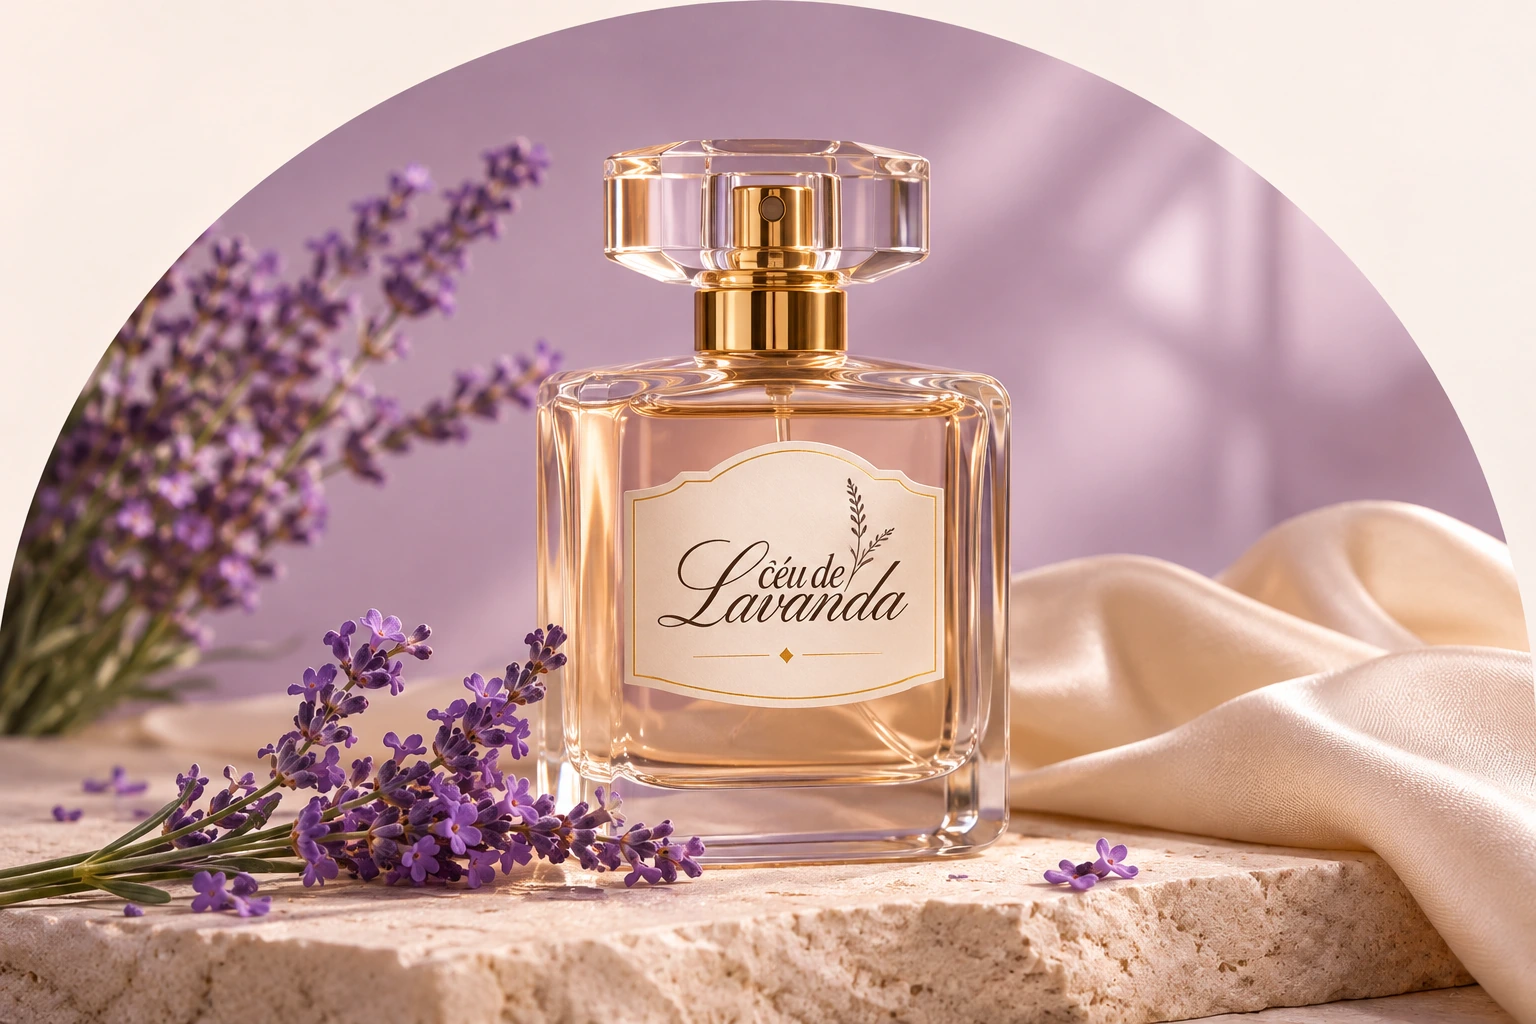
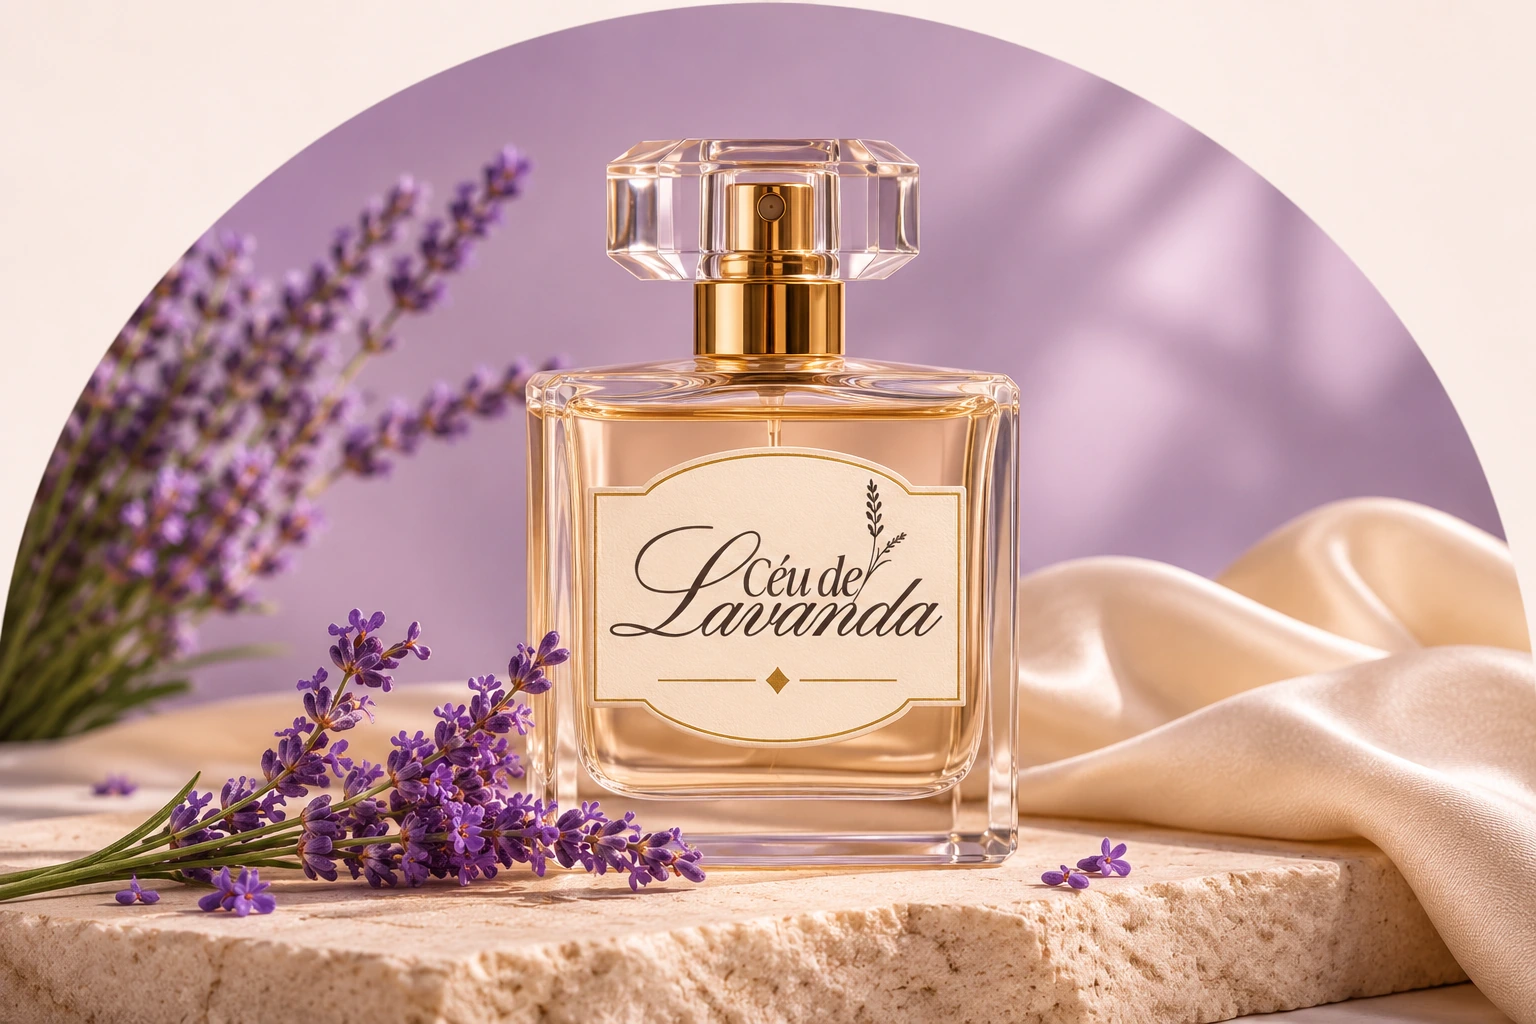
feat(home): refine brand presentation and catalog discovery
Update the hero image and center its mobile layout. Introduce a continuous decorative strip on smaller screens with accessible pause and reduced-motion behavior.

Present the brand and its artisan production in the About section, replace projected category counts with catalog data, and show a random selection of fragrances on each visit.

Remove outdated collection messaging and stabilize the animation test by waiting for the randomized selection.

Closes #3
Refs #4

diff --git a/src/features/home/components/brand-ribbon.tsx b/src/features/home/components/brand-ribbon.tsx
@@ -1,18 +1,48 @@
+"use client";
+
 import Image from "next/image";
+import { useEffect, useState } from "react";
 import { Reveal } from "@/shared/components/reveal";
 
+const phrases = ["Presença nos detalhes", "Beleza em cada descoberta", "O seu próximo encanto"];
+const ornament = "/branding/lavender-ornament-gold.svg";
+
 export function BrandRibbon() {
+  const [enabled, setEnabled] = useState(false);
+  const [paused, setPaused] = useState(false);
+  useEffect(() => {
+    const media = window.matchMedia("(max-width: 1050px) and (prefers-reduced-motion: no-preference)");
+    const update = () => setEnabled(media.matches);
+    const initial = window.setTimeout(update, 0);
+    media.addEventListener("change", update);
+    return () => { window.clearTimeout(initial); media.removeEventListener("change", update); };
+  }, []);
   return (
     <section className="brand-ribbon" aria-label="A essência da marca">
-      <Reveal className="phrase-strip wrap">
-        <Image src="/branding/lavender-ornament-gold.svg" alt="" width={76} height={138} />
-        <p>Presença nos detalhes</p>
-        <Image src="/branding/lavender-ornament-gold.svg" alt="" width={76} height={138} />
-        <p>Beleza em cada descoberta</p>
-        <Image src="/branding/lavender-ornament-gold.svg" alt="" width={76} height={138} />
-        <p>O seu próximo encanto</p>
-        <Image src="/branding/lavender-ornament-gold.svg" alt="" width={76} height={138} />
+      <Reveal className="phrase-strip wrap" data-ticker={enabled}>
+        <Image src={ornament} alt="" width={76} height={138} />
+        <p>{phrases[0]}</p>
+        <Image src={ornament} alt="" width={76} height={138} />
+        <p>{phrases[1]}</p>
+        <Image src={ornament} alt="" width={76} height={138} />
+        <p>{phrases[2]}</p>
+        <Image src={ornament} alt="" width={76} height={138} />
       </Reveal>
+      {enabled && (
+        <button className="phrase-ticker" type="button" data-paused={paused}
+          aria-label={`${paused ? "Retomar" : "Pausar"} movimento das frases: ${phrases.join(", ")}`}
+          onClick={() => setPaused(value => !value)}>
+          <span className="phrase-ticker-track" aria-hidden="true">
+            {[0, 1].map(copy => (
+              <span className="phrase-ticker-group" key={copy}>
+                {phrases.map(phrase => <span className="phrase-ticker-item" key={phrase}>
+                  <Image src={ornament} alt="" width={76} height={138} /><span>{phrase}</span>
+                </span>)}
+              </span>
+            ))}
+          </span>
+        </button>
+      )}
     </section>
   );
 }

diff --git a/src/features/home/components/category-discovery.tsx b/src/features/home/components/category-discovery.tsx
@@ -1,13 +1,13 @@
 import Image from "next/image";
 import Link from "next/link";
 import { ArrowUpRight } from "lucide-react";
-import { categories } from "@/features/catalog/lib/catalog";
+import { categories, products } from "@/features/catalog/lib/catalog";
 import { Reveal } from "@/shared/components/reveal";
 
 const categoryIntroductions = {
-  perfumes: { count: "Aproximadamente 90 fragrâncias", description: "Um convite para encontrar o seu próximo perfume." },
-  "body-splash": { count: "Aproximadamente 10 opções", description: "Um caminho dedicado à coleção de Body Splash." },
-  "perfume-capilar": { count: "1 fragrância", description: "Conheça o espaço do perfume capilar, também chamado Hair Mist." },
+  perfumes: { description: "Um convite para encontrar o seu próximo perfume." },
+  "body-splash": { description: "Um caminho dedicado à coleção de Body Splash." },
+  "perfume-capilar": { description: "Conheça o espaço do perfume capilar, também chamado Hair Mist." },
 };
 
 export function CategoryDiscovery() {
@@ -21,10 +21,11 @@ export function CategoryDiscovery() {
           <p className="eyebrow">ENCONTRE O SEU CAMINHO</p>
           <h2 id="category-title">Uma coleção, três caminhos</h2>
         </div>
-        <p>Dimensão prevista da coleção.<br /><span>O cadastro dos produtos acontece aos poucos.</span></p>
       </Reveal>
       <Reveal className="category-grid">
-        {categories.map((category) => (
+        {categories.map((category) => {
+          const count = products.filter(product => product.category === category.slug).length;
+          return (
           <Link
             className="category-card"
             key={category.slug}
@@ -41,11 +42,12 @@ export function CategoryDiscovery() {
             <div className="category-card-title">
               <h3>{category.name}</h3>
             </div>
-            <p className="category-count">{categoryIntroductions[category.slug].count}</p>
+            <p className="category-count">{count} {count === 1 ? "fragrância" : "fragrâncias"}</p>
             <p className="category-description">{categoryIntroductions[category.slug].description}</p>
             <span className="category-link">Explorar {category.name} <ArrowUpRight aria-hidden="true" /></span>
           </Link>
-        ))}
+          );
+        })}
       </Reveal>
     </section>
   );

diff --git a/tests/e2e/ribbon.spec.ts b/tests/e2e/ribbon.spec.ts
@@ -1,0 +1,36 @@
+import { expect, test } from "@playwright/test";
+
+for (const width of [320, 375, 390, 430]) {
+  test(`continuous mobile ribbon moves and pauses at ${width}px`, async ({ page }, info) => {
+    test.skip(info.project.name !== "mobile");
+    await page.setViewportSize({ width, height: 844 });
+    await page.emulateMedia({ reducedMotion: "no-preference" });
+    await page.goto("/");
+    const ticker = page.locator(".phrase-ticker");
+    await ticker.scrollIntoViewIfNeeded();
+    await expect(ticker).toBeVisible();
+    await expect(ticker).toHaveAccessibleName(/^Pausar movimento das frases/);
+    const track = ticker.locator(".phrase-ticker-track");
+    await expect(track).toHaveCSS("animation-name", "phrase-scroll");
+    await expect(track).toHaveCSS("animation-iteration-count", "infinite");
+    const before = await track.evaluate(el => new DOMMatrix(getComputedStyle(el).transform).m41);
+    await page.waitForTimeout(500);
+    const after = await track.evaluate(el => new DOMMatrix(getComputedStyle(el).transform).m41);
+    expect(after).toBeLessThan(before);
+    expect(await page.evaluate(() => document.documentElement.scrollWidth <= innerWidth)).toBe(true);
+    await ticker.tap();
+    await expect(track).toHaveCSS("animation-play-state", "paused");
+    await expect(page.getByRole("button", { name: /^Retomar movimento das frases/ })).toBeVisible();
+    await ticker.tap();
+    await expect(track).toHaveCSS("animation-play-state", "running");
+    await ticker.focus();
+    await ticker.press("Space");
+    await expect(track).toHaveCSS("animation-play-state", "paused");
+    await ticker.press("Space");
+    await expect(track).toHaveCSS("animation-play-state", "running");
+    await page.emulateMedia({ reducedMotion: "reduce" });
+    await expect(ticker).toHaveCount(0);
+    const phrases = page.locator(".phrase-strip p");
+    for (const phrase of await phrases.all()) await expect(phrase).toBeVisible();
+  });
+}

diff --git a/tests/e2e/catalog.spec.ts b/tests/e2e/catalog.spec.ts
@@ -38,10 +38,14 @@ test("@visual homepage and category discovery", async ({ page }, info) => {
   await expect(page.locator(".hero h1")).toHaveText("Um encontro com o seu próximo encanto", { useInnerText: true });
   await expect(page.locator("#category-title")).toHaveText("Uma coleção, três caminhos");
   await expect(page.locator("#preview-title")).toHaveText("Nomes para despertar a curiosidade");
-  await expect(page.locator(".about h2")).toHaveText("O começo de uma bela descoberta", { useInnerText: true });
+  await expect(page.locator(".about h2")).toHaveText("A essência da Céu de Lavanda", { useInnerText: true });
   await expect(page.locator(".phrase-strip p")).toHaveText(["Presença nos detalhes", "Beleza em cada descoberta", "O seu próximo encanto"]);
   await expect(page.locator(".category-card")).toHaveCount(3);
-  await expect(page.locator(".category-count")).toHaveText(["Aproximadamente 90 fragrâncias", "Aproximadamente 10 opções", "1 fragrância"]);
+  const expectedCounts = ["perfumes", "body-splash", "perfume-capilar"].map(category => {
+    const count = catalogProducts.filter(product => product.category === category).length;
+    return `${count} ${count === 1 ? "fragrância" : "fragrâncias"}`;
+  });
+  await expect(page.locator(".category-count")).toHaveText(expectedCounts);
   await expect(page.locator(".product-card")).toHaveCount(4);
   const columns = await page.locator(".collection-preview .product-grid").evaluate((grid) => getComputedStyle(grid).gridTemplateColumns.split(" ").length);
   expect(columns).toBe(info.project.name === "desktop" ? 4 : 2);

diff --git a/src/features/home/components/about-section.tsx b/src/features/home/components/about-section.tsx
@@ -5,23 +5,24 @@ import { Reveal } from "@/shared/components/reveal";
 export function AboutSection() {
   return (
     <section className="about wrap" id="sobre" tabIndex={-1}>
-      <p className="eyebrow">O UNIVERSO CÉU DE LAVANDA</p>
+      <p className="eyebrow">SOBRE A MARCA</p>
       <Reveal>
         <h2>
-          O começo de uma
+          A essência da
           <br />
-          <em className="decorative-text">bela descoberta</em>
+          <em className="decorative-text">Céu de Lavanda</em>
         </h2>
+        <p className="about-subtitle">Produção artesanal</p>
         <p>
-          Nosso catálogo está florescendo. Por aqui, você já pode explorar os
-          nomes da coleção e conhecer o espaço de cada fragrância.
+          Na Céu de Lavanda, acreditamos que uma fragrância pode tornar os
+          momentos do dia mais especiais e revelar um pouco de quem somos.
         </p>
         <p>
-          Fotografias e informações de cada produto serão adicionadas conforme
-          forem confirmadas. Volte para acompanhar os próximos detalhes.
+          Nossa coleção reúne perfumes para diferentes gostos e ocasiões, em um
+          convite para descobrir aromas que acompanhem você de um jeito único.
         </p>
         <Link className="text-link" href="/catalogo/">
-          Conheça todos os nomes <ArrowUpRight aria-hidden="true" />
+          Explore a coleção <ArrowUpRight aria-hidden="true" />
         </Link>
       </Reveal>
     </section>

diff --git a/tests/e2e/hero-layout.spec.ts b/tests/e2e/hero-layout.spec.ts
@@ -1,0 +1,28 @@
+import { expect, test } from "@playwright/test";
+
+for (const width of [320, 390, 768, 1050, 1051, 1440]) {
+  test(`hero and ribbon adapt at ${width}px`, async ({ page }, info) => {
+    test.skip(info.project.name !== "desktop");
+    await page.setViewportSize({ width, height: 1000 });
+    await page.emulateMedia({ reducedMotion: "no-preference" });
+    await page.goto("/");
+    await page.evaluate(() => document.fonts.ready);
+    const ticker = page.locator(".phrase-ticker");
+    if (width <= 1050) await expect(ticker).toBeVisible();
+    else await expect(ticker).toHaveCount(0);
+    if (width <= 760) {
+      const copy = page.locator(".hero-copy");
+      await expect(copy).toHaveCSS("text-align", "center");
+      const centered = await copy.evaluate(el => {
+        const box = el.getBoundingClientRect();
+        const button = el.querySelector(".button")!.getBoundingClientRect();
+        return Math.abs((box.left + box.right) / 2 - (button.left + button.right) / 2);
+      });
+      expect(centered).toBeLessThan(2);
+    }
+    expect(await page.evaluate(() => document.documentElement.scrollWidth <= innerWidth + 1)).toBe(true);
+    await page.emulateMedia({ reducedMotion: "reduce" });
+    await expect(ticker).toHaveCount(0);
+    for (const phrase of await page.locator(".phrase-strip p").all()) await expect(phrase).toBeVisible();
+  });
+}

diff --git a/src/features/home/styles/brand-ribbon.css b/src/features/home/styles/brand-ribbon.css
@@ -49,3 +49,40 @@
   .phrase-strip img:nth-child(5) { grid-area: 2 / 3; }
   .phrase-strip img:last-child { grid-area: 3 / 3; }
 }
+@media (max-width: 1050px) {
+  .phrase-strip[data-ticker="true"] { display: none; }
+  .phrase-ticker {
+    display: block;
+    width: 100%;
+    min-height: 58px;
+    padding: 10px 0;
+    color: var(--foreground);
+    background: transparent;
+    border: 0;
+    overflow: hidden;
+    text-align: left;
+    cursor: pointer;
+  }
+  .phrase-ticker-track, .phrase-ticker-group, .phrase-ticker-item {
+    display: flex;
+    width: max-content;
+    align-items: center;
+  }
+  .phrase-ticker-track { animation: phrase-scroll 30s linear infinite; }
+  .phrase-ticker[data-paused="true"] .phrase-ticker-track { animation-play-state: paused; }
+  .phrase-ticker-group { gap: 32px; padding-right: 32px; }
+  .phrase-ticker-item {
+    gap: 16px;
+    font: 400 1.65rem/1.35 var(--font-decorative);
+    white-space: nowrap;
+  }
+  .phrase-ticker-item img { width: 12px; height: auto; }
+}
+.phrase-ticker { display: none; }
+@media (max-width: 1050px) {
+  .phrase-ticker { display: block; }
+}
+@keyframes phrase-scroll {
+  from { transform: translateX(0); }
+  to { transform: translateX(-50%); }
+}

diff --git a/src/features/home/components/collection-preview.tsx b/src/features/home/components/collection-preview.tsx
@@ -1,8 +1,12 @@
 import Link from "next/link";
 import { ArrowUpRight } from "lucide-react";
 import { Reveal } from "@/shared/components/reveal";
-import { ProductCard } from "@/features/catalog/components/product-card";
 import { products } from "@/features/catalog/lib/catalog";
+import { RandomPreview } from "./random-preview";
+
+const previewItems = products.map(({ id, slug, name, photo, volumeOptions, volumePrices, priceCents, availability }) => ({
+  id, slug, name, photo, volumeOptions, volumePrices, priceCents, availability,
+}));
 
 export function CollectionPreview() {
   return (
@@ -17,11 +21,7 @@ export function CollectionPreview() {
           <h2 id="preview-title">Nomes para despertar a curiosidade</h2>
         </div>
       </Reveal>
-      <Reveal className="product-grid">
-        {products.slice(0, 4).map((product, index) => (
-          <ProductCard product={product} index={index} key={product.id} />
-        ))}
-      </Reveal>
+      <RandomPreview items={previewItems} />
       <div className="preview-footer">
         <p>Uma pequena seleção. Outras descobertas esperam por você.</p>
         <Link className="button" href="/catalogo/">

diff --git a/src/features/home/components/random-preview.tsx b/src/features/home/components/random-preview.tsx
@@ -1,0 +1,25 @@
+"use client";
+
+import { useEffect, useState } from "react";
+import { ProductCard } from "@/features/catalog/components/product-card";
+import type { Product } from "@/features/catalog/lib/catalog";
+import { useReveal } from "@/shared/components/reveal";
+import { randomSelection } from "../lib/random-selection";
+
+export function RandomPreview({ items }: { items: Product[] }) {
+  const [selection, setSelection] = useState(() => items.slice(0, 4));
+  const [ready, setReady] = useState(false);
+  const grid = useReveal(JSON.stringify(selection.map(product => product.id)));
+  useEffect(() => {
+    const timer = window.setTimeout(() => {
+      setSelection(randomSelection(items, 4));
+      setReady(true);
+    }, 0);
+    return () => window.clearTimeout(timer);
+  }, [items]);
+  return (
+    <div className="product-grid" ref={grid} data-selection-ready={ready}>
+      {selection.map((product, index) => <ProductCard product={product} index={index} key={product.id} />)}
+    </div>
+  );
+}

diff --git a/tests/e2e/random-preview.spec.ts b/tests/e2e/random-preview.spec.ts
@@ -1,0 +1,14 @@
+import { test, expect } from "@playwright/test";
+import catalogProducts from "../../src/features/catalog/data/products.json";
+import { randomSelection } from "../../src/features/home/lib/random-selection";
+
+test("homepage samples four products on each visit, preserving unique links", async ({ page }) => {
+  await page.addInitScript(() => { Math.random = () => location.search.includes("second") ? 0.999 : 0; });
+  for (const value of [0, 0.999]) {
+    await page.goto(value === 0 ? "/?first" : "/?second");
+    const cards = page.locator(".collection-preview .product-card");
+    const expected = randomSelection(catalogProducts, 4, () => value).map(product => `/produtos/${product.slug}/`);
+    await expect.poll(() => cards.evaluateAll(nodes => nodes.map(node => node.getAttribute("href")))).toEqual(expected);
+    expect(new Set(expected).size).toBe(Math.min(4, catalogProducts.length));
+  }
+});

diff --git a/src/shared/components/site-footer.tsx b/src/shared/components/site-footer.tsx
@@ -14,11 +14,13 @@ export function SiteFooter() {
             height={145.21}
           />
         </Link>
-        <p>
-          Um nome. Uma descoberta.
-          <br />
-          Um novo encanto.
-        </p>
+        <div className="footer-message">
+          <p>
+            Um nome. Uma descoberta.
+            <br />
+            Um novo encanto.
+          </p>
+        </div>
         <nav aria-label="Navegação do rodapé">
           <Link href="/catalogo/">
             Explore a coleção <ArrowUpRight aria-hidden="true" />

diff --git a/tests/e2e/motion.spec.ts b/tests/e2e/motion.spec.ts
@@ -42,6 +42,8 @@ test.describe("delicate catalog motion", () => {
     });
     for (const route of ["/", "/catalogo/"]) {
       await page.goto(route);
+      if (route === "/")
+        await expect(page.locator(".collection-preview .product-grid")).toHaveAttribute("data-selection-ready", "true");
       const card = page.locator(".product-card").first();
       await card.scrollIntoViewIfNeeded();
       await expect(card).toHaveAttribute("data-test-reveals", "1");
